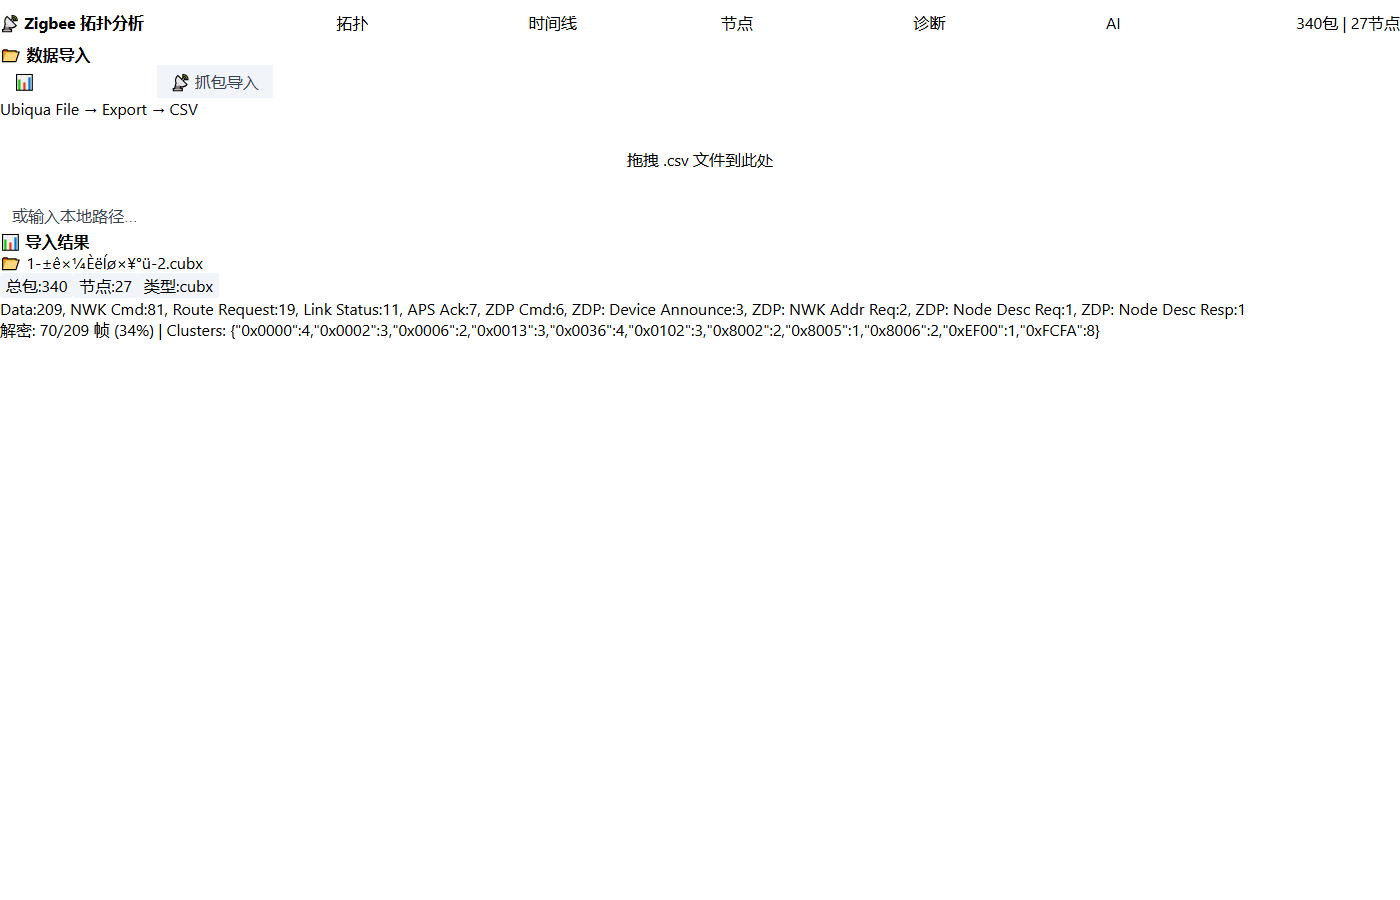
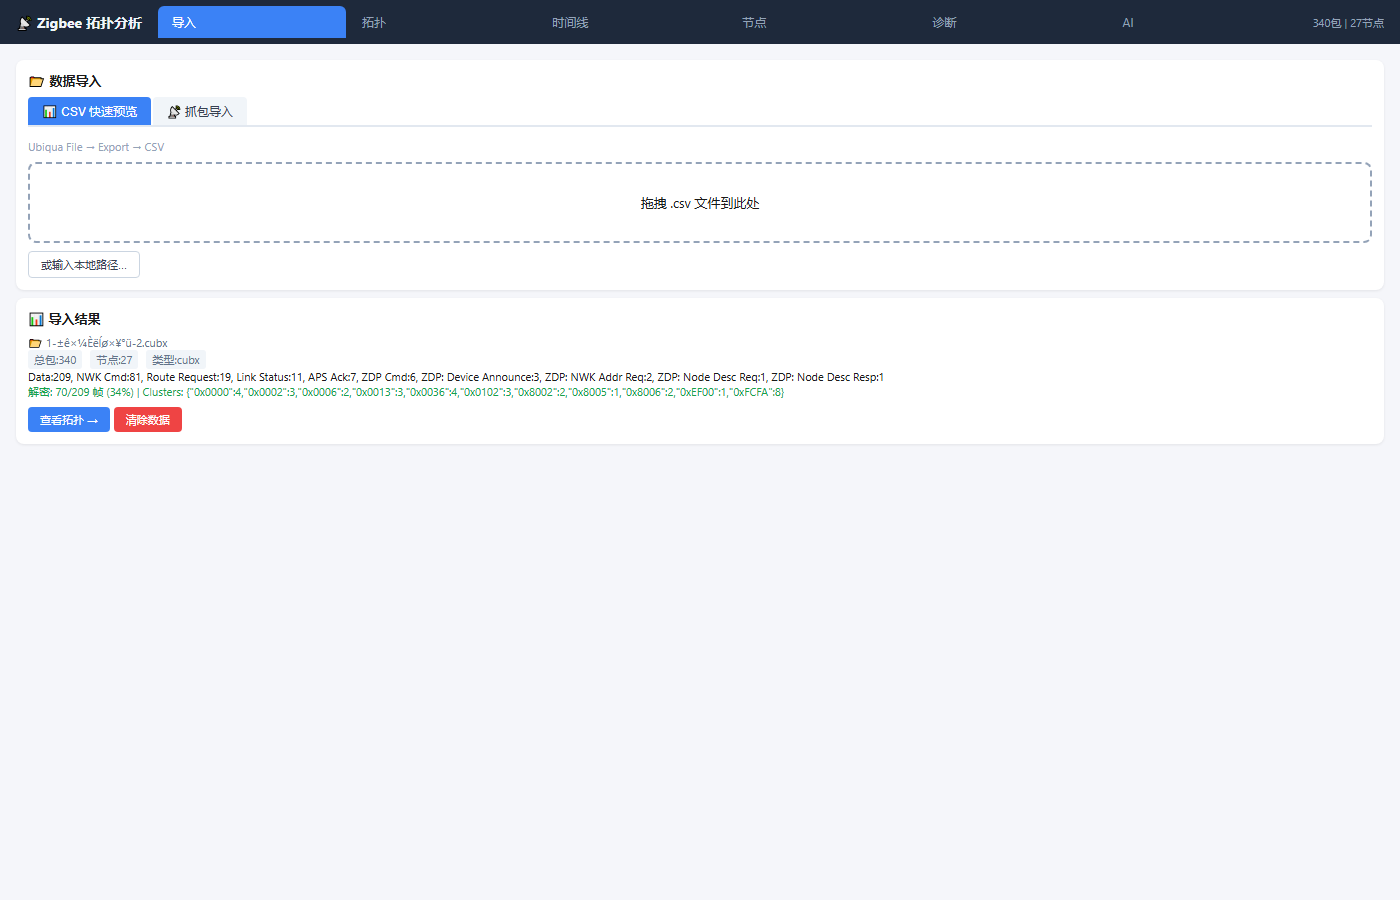
fix: CSS 注释内 */ 序列导致 :root 变量块被吞 — 全站无样式
根因: 注释头 '状态统一用 .text-*/.alert-*/.v-*' 中的 .alert-*/ 含 '*/'
字符序列, CSS 注释在 .alert-* 处提前闭合, 后续文本变裸代码,
:root 变量块整体被解析器丢弃 → 所有 var() 引用失效 → 全部样式消失
(表现为只有文字、无颜色无边框, 任何浏览器均如此)

修复: 注释改用顿号分隔 (.text-*、.alert-*、.v-*)
验证: --headless=new 探针 .card computed 背景 白→生效; 六页面导航
深蓝 #1e293b 全部正常; 新截图 u1_*.png (六页面全量)

diff --git a/frontend/css/app.css b/frontend/css/app.css
@@ -4,7 +4,7 @@
          → 7 表单 → 8 表格 → 9 文本工具 → 10 徽标/状态 → 11 页面组件
          → 12 Range 滑块 → 13 工具类
    命名约定: 组件类语义化 (.btn-p/.btn-o/.btn-r/.card/.tbl); 工具类简短
-         (.row/.grow/.mono/.t-10/.w-90); 状态统一用 .text-*/.alert-*/.v-*
+         (.row/.grow/.mono/.t-10/.w-90); 状态统一用 .text-*、.alert-*、.v-*
    仅浅色主题 (深色 token 位预留: --c-*-dark)
    ========================================================================== */
 
